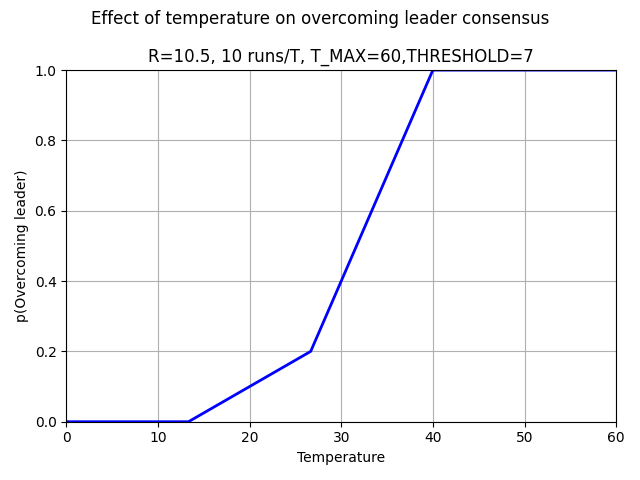
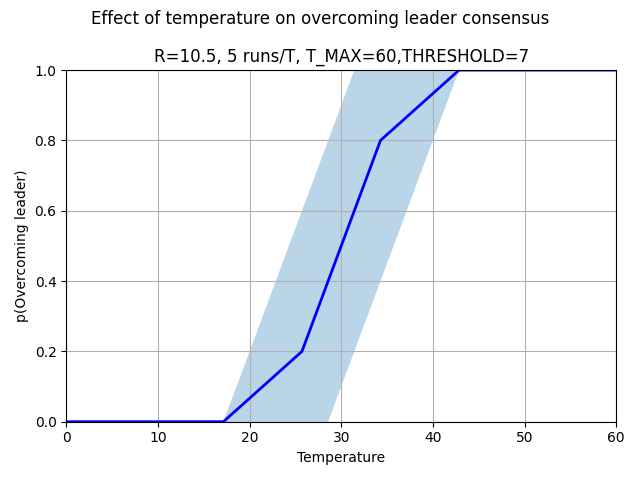
Add stdev to critical temperature plot generation

Changed region(s): [[0.2188, 0.0938, 0.8438, 0.9062]]

diff --git a/demos/threshold_plot.py b/demos/threshold_plot.py
@@ -16,8 +16,8 @@ import csv
 
 ################################
 
-NUMBER_OF_T_VALUES_TO_TEST = 10 # Should be 20
-SIMS_PER_T_VALUE = 10 # Should be 20
+NUMBER_OF_T_VALUES_TO_TEST = 20 # Should be 20
+SIMS_PER_T_VALUE = 30 # Should be 20
 T_MAX = 60
 
 
@@ -154,6 +154,7 @@ for index in range(NUMBER_OF_T_VALUES_TO_TEST):
     TEMP = temperatures[index]
     print(f'Sim {index+1}/{NUMBER_OF_T_VALUES_TO_TEST}')
     leader_overcomed = 0
+    last_cluster_sizes = np.zeros(SIMS_PER_T_VALUE)
 
     for sim in range(SIMS_PER_T_VALUE):
         model = ca.CA(gridsize_x=GRIDSIZE_X, gridsize_y=GRIDSIZE_Y, temp=TEMP, beta=BETA, beta_leader=BETA_LEADER, h=H, p_occupation=P_OCCUPATION, p_opinion_1=P_OPINION_1, s_leader=S_LEADER, s_mean=S_MEAN)
@@ -161,6 +162,9 @@ for index in range(NUMBER_OF_T_VALUES_TO_TEST):
         #simulation = data['opinions']
         #cluster_sizes = data['cluster_sizes']
         last_cluster_size = data['cluster_sizes'][-1]
+        
+        # Save to make std dev
+        last_cluster_sizes[sim] = last_cluster_size
 
         # Check if unification was overcomed!
         # That is, if the cluster around leader is gone
@@ -174,10 +178,25 @@ for index in range(NUMBER_OF_T_VALUES_TO_TEST):
     # Over SIMS_PER_T_VALUE
     p_overcoming_leader[index] = leader_overcomed / SIMS_PER_T_VALUE
 
-    # Get confidence interval (?)
-    mean, std = np.mean(p_overcoming_leader[index]), np.std(p_overcoming_leader[index])
+    # The mean is the same as the p_overcomming leader
+    
+    #The std is the std of the binomial distribution (np.sqrt(n * p * (1 - p))!
+    # That has n=SIMS_PER_T_VALUE and p = p_overcoming_leader
+    #std_devs[index] = np.sqrt(SIMS_PER_T_VALUE * p_overcoming_leader[index] * (1 - p_overcoming_leader[index]))
+
+    # The std dev is the std dev in the distrib that has leader_overcomed 1s and the other elements 0s
+    runs = np.zeros(SIMS_PER_T_VALUE)
+    runs[:leader_overcomed] = 1
+    # Turn leader_overcomed elements to 1
+    std_devs[index] = np.std(runs)
+
+    print(runs)
+    print('STD binom',np.sqrt(SIMS_PER_T_VALUE * p_overcoming_leader[index] * (1 - p_overcoming_leader[index])),)
+    print('STD empiric',np.std(runs))
+
+    mean = np.mean(runs) # Should be same as p_overcoming_leader[index]
     means[index] = mean#.append(mean)
-    std_devs[index] = std
+    #std_devs[index] = std
 
     # Get stdev and confidence interval
 

diff --git a/demos/threshol_plot_onlyplot.py b/demos/threshol_plot_onlyplot.py
@@ -22,14 +22,13 @@ R = float(params['R'])
 T_MAX = int(params['T_MAX'])
 SIMS_PER_T_VALUE = int(params['SIMS_PER_T_VALUE'])
 THRESHOLD = float(params['THRESHOLD'])
-
 NUMBER_OF_T_VALUES_TO_TEST = int(params['NUMBER_OF_T_VALUES_TO_TEST'])
 
 temperatures = np.linspace(0,T_MAX,NUMBER_OF_T_VALUES_TO_TEST)
 
-
 p_overcoming_leader = np.fromfile('./figures/t_threshold_plot_tp_overcoming_leader.npy',sep='\n')#, dtype=float)
 
+# Of the cluster sizes at the end of each temperature
 means = np.fromfile("./figures/t_threshold_plot_means.npy",sep='\n')#, dtype=)
 std_devs = np.fromfile("./figures/t_threshold_plot_std_devs.npy",sep='\n')#, dtype=float)
 
